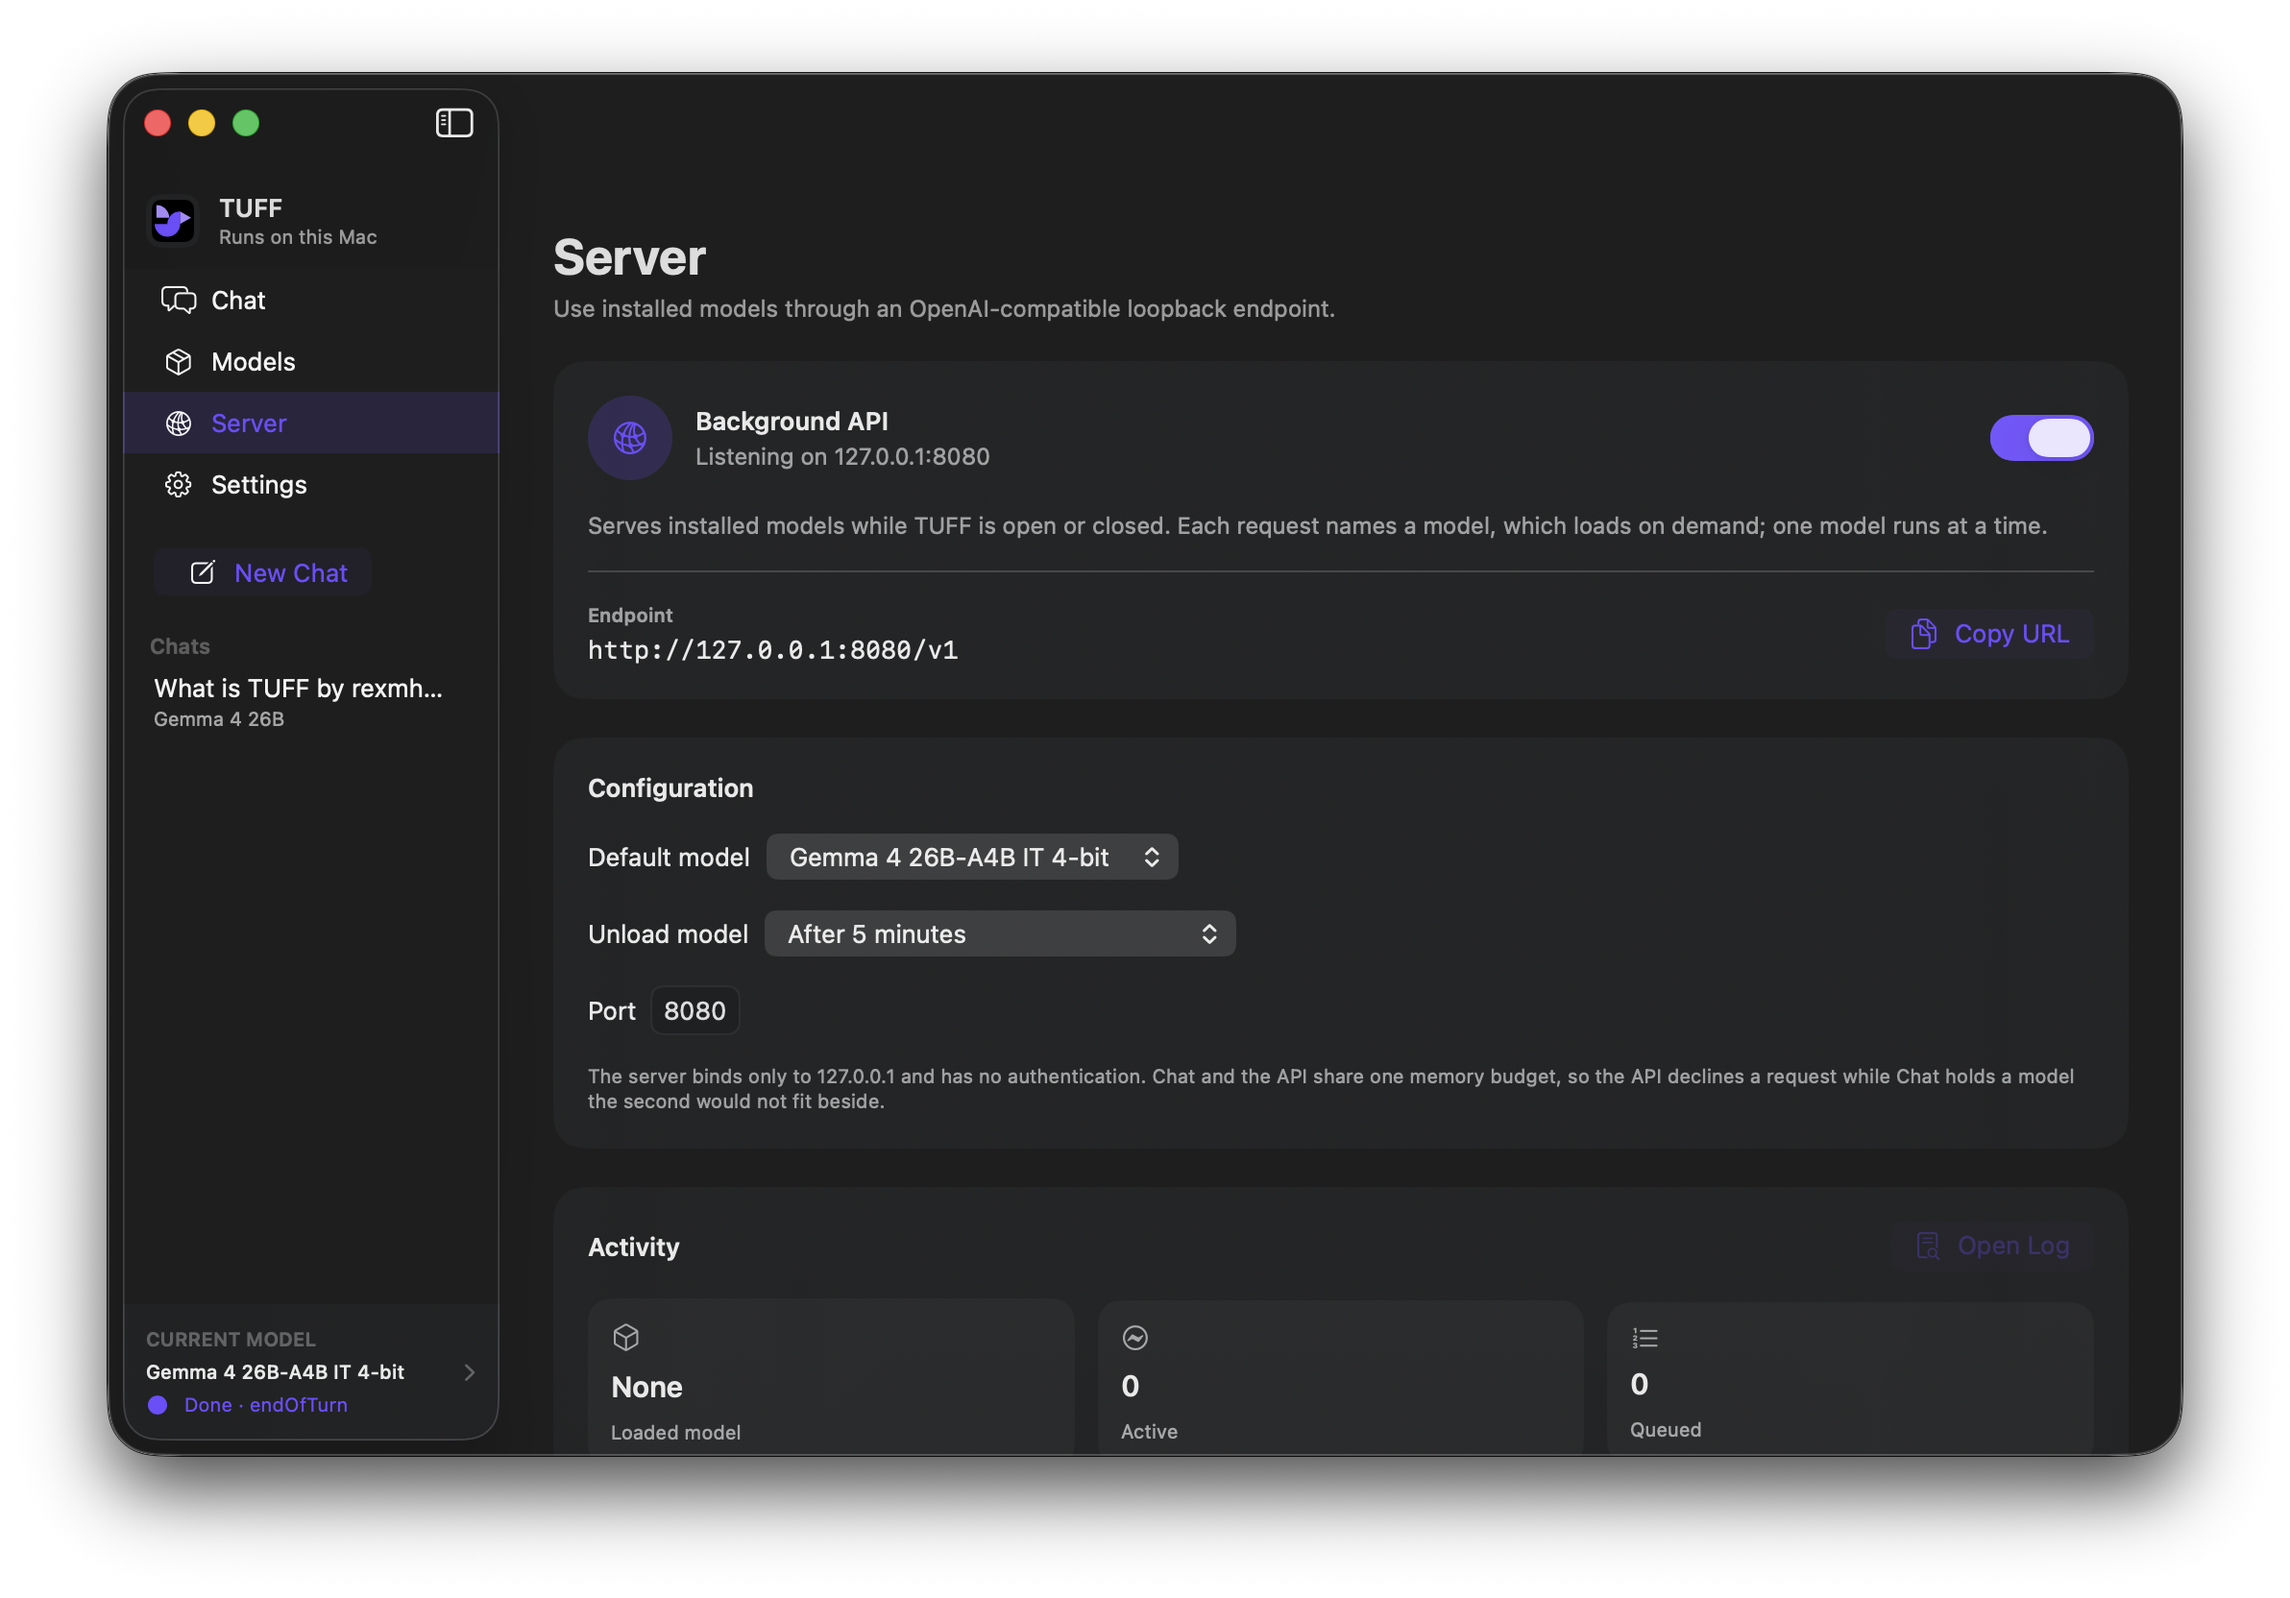
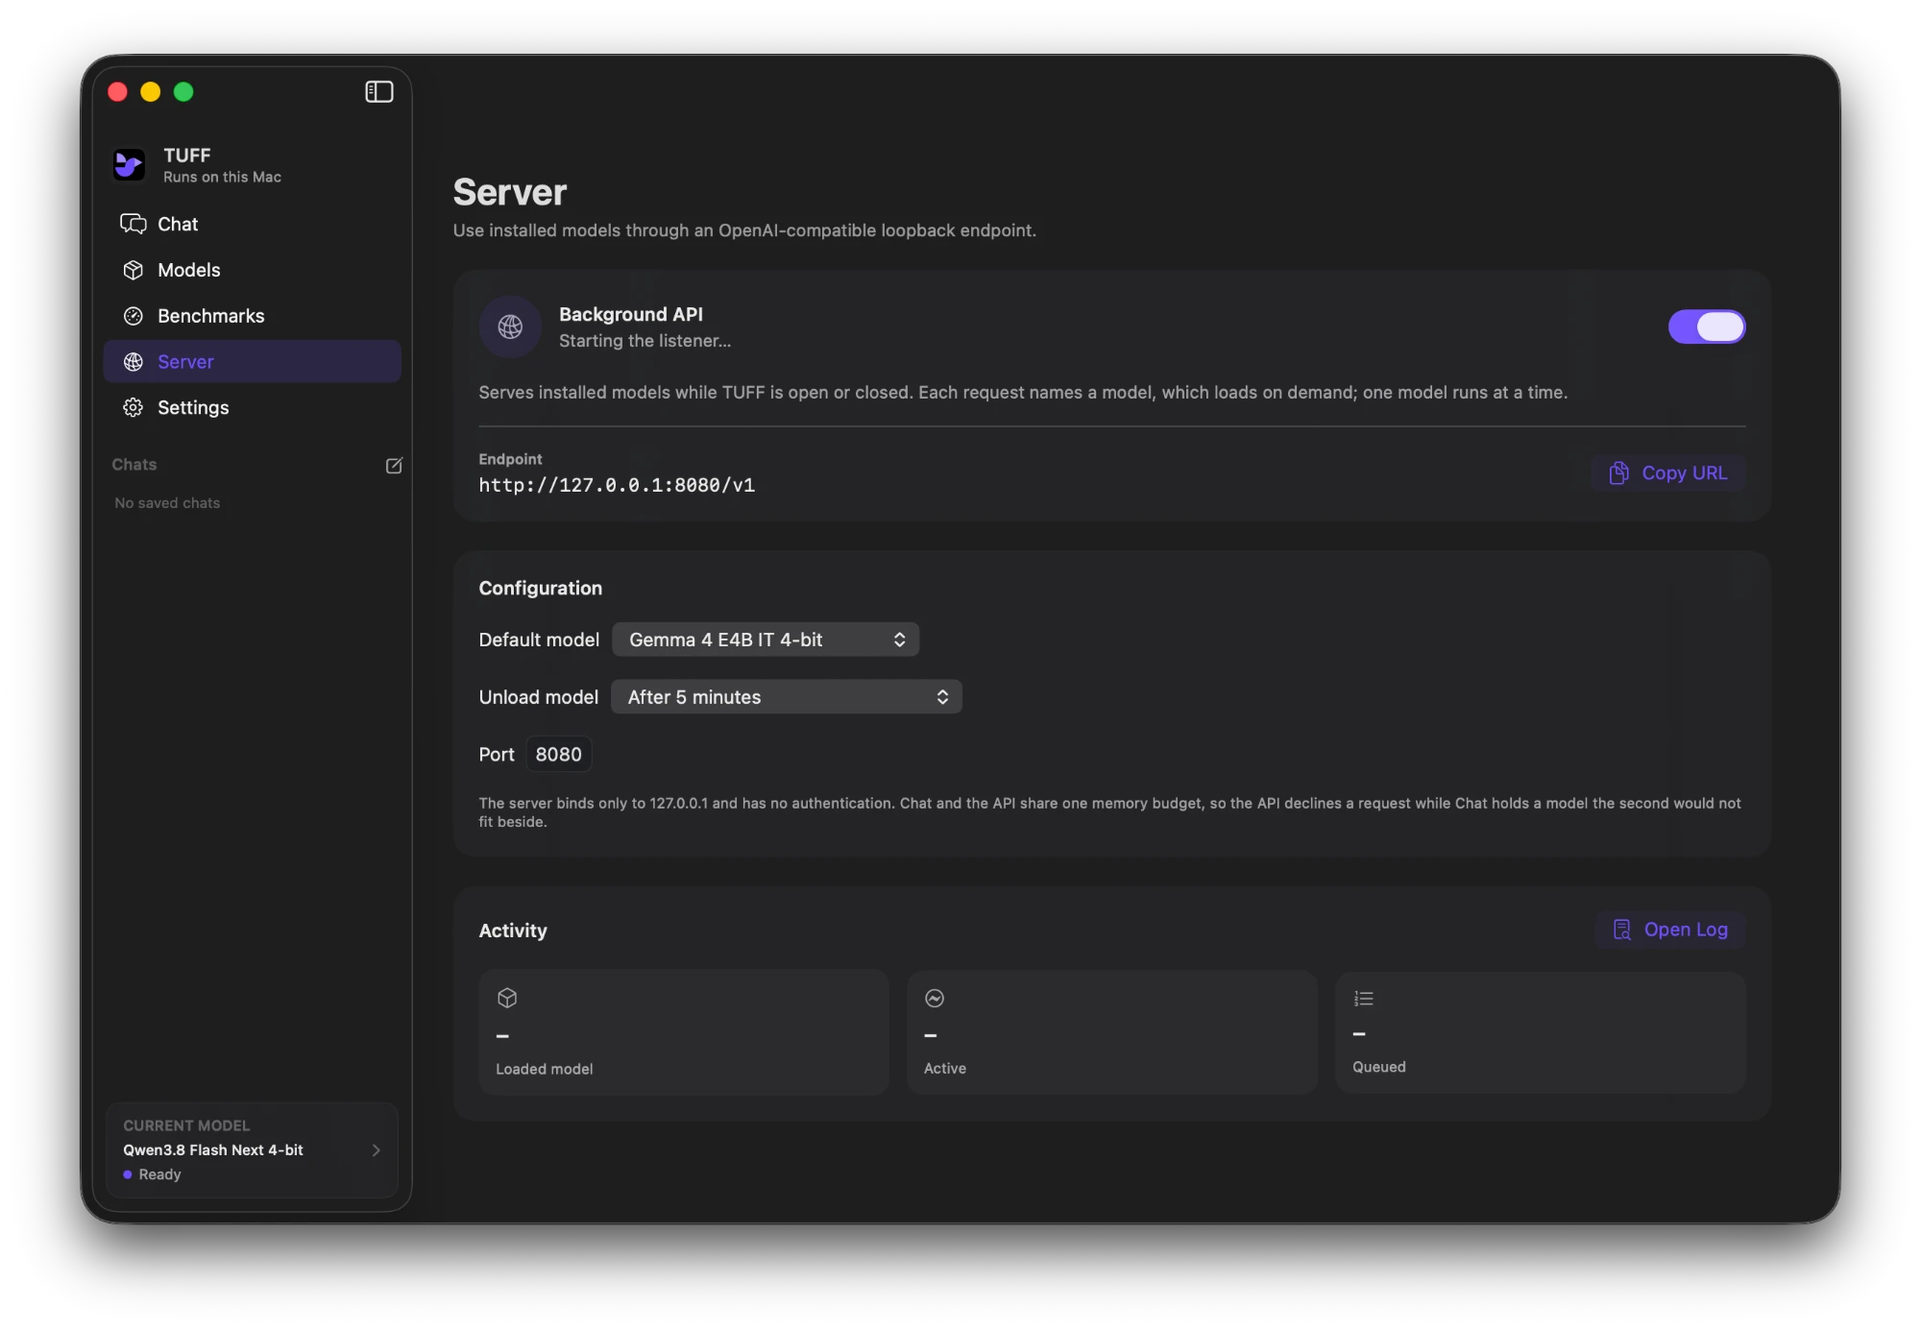
Use new 8.1 screenshots for chat, Benchmarks and Server

Changed region(s): [[0.031, 0.031, 0.961, 0.9625], [0.248, 0.7762, 0.31, 0.8072], [0.868, 0.7762, 0.899, 0.8072]]

diff --git a/site/index.html b/site/index.html
@@ -116,7 +116,7 @@
   </header>
 
   <div class="shot">
-    <img src="assets/tuff-chat.png" alt="TUFF chat with optional Web and Files search, tool activity and numbered sources">
+    <img src="assets/tuff-chat.png" alt="TUFF chatting with Qwen3.8 Flash Next, with web search and numbered sources">
   </div>
 
   <section aria-labelledby="big-models">

diff --git a/README.md b/README.md
@@ -16,7 +16,7 @@
   <a href="https://github.com/rexmhall09/TUFF/discussions">Discussions</a>
 </p>
 
-![TUFF chat with optional Web and Files search](docs/assets/tuff-chat.png)
+![TUFF chatting with Qwen3.8 Flash Next on a 16 GB MacBook Air](docs/assets/tuff-chat.png)
 
 TUFF runs language models locally on Apple Silicon. The app is native
 SwiftUI and the inference engine is written from scratch in Swift and Metal,

diff --git a/docs/BENCHMARKS.md b/docs/BENCHMARKS.md
@@ -9,6 +9,8 @@ benchmark is built in, takes a few clicks, and the results go on the
 **In the app:** open **Benchmarks**, tick the models you want, and press
 **Run Benchmark**. When it's done, press **Share on GitHub**.
 
+![The Benchmarks screen](assets/tuff-benchmarks.png)
+
 **From the terminal:**
 
 ```sh
